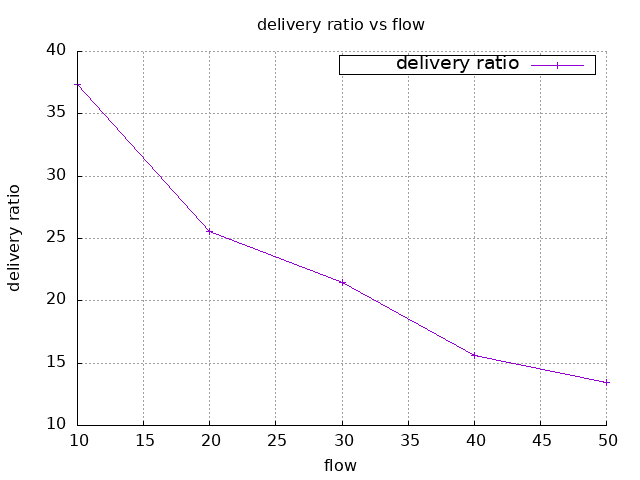
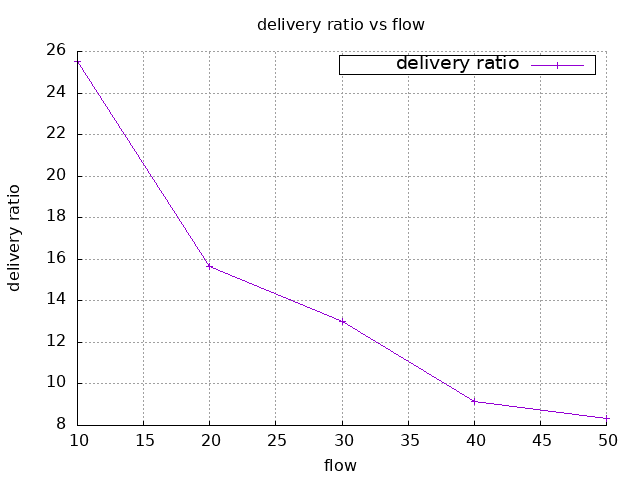
ns3-offline : number of flows is made to be half of the number of senders/receivers

diff --git a/1905003/1905003_2.cc b/1905003/1905003_2.cc
@@ -69,9 +69,9 @@ main(int argc, char *argv[])
   std::string bottleNeckDelay = "2ms";
   std::string file = "./scratch/1905003/1905003_2/data.txt";
 
-  // changes for part-1
+  // changes for part-2
   int nNodes = 20;
-  int nFlows = 20;
+  int nFlows = 10;
   int nPacketsPerSecond = 500;
   int speed = 5;
 
@@ -87,14 +87,12 @@ main(int argc, char *argv[])
   cmd.AddValue("file","File to store data", file);
   cmd.Parse(argc,argv);
   
-  nFlows = nFlows/2;
   int nLeaf = nNodes/2;
   int dataRate =(payloadSize * nPacketsPerSecond * 8) / 1000;		//kbps
   std::string senderDataRate = std::to_string(dataRate) + "Kbps";
   std::string bottleNeckDataRate = std::to_string(dataRate / 10) + "Kbps";
 
-  NS_LOG_UNCOND("Using nodes : "<<nNodes<<" ; flows : "<<2*nFlows<<" ; packets per sec : "<<nPacketsPerSecond<<" ; "\
-                "speed : "<<speed<<" ; sender data rate : "<<senderDataRate<<" ; bottleneck data rate : "<<bottleNeckDataRate);
+  NS_LOG_UNCOND("Using nodes : "<<nNodes<<" ; flows : "<<nFlows<<" ; packets per sec : "<<nPacketsPerSecond<<" ; speed : "<<speed<<" ; sender data rate : "<<senderDataRate<<" ; bottleneck data rate : "<<bottleNeckDataRate);
 
   // config some default values
   Config::SetDefault("ns3::TcpSocket::SegmentSize", UintegerValue(payloadSize));
@@ -272,7 +270,7 @@ main(int argc, char *argv[])
 
   std::ofstream MyFile(file, std::ios_base::app);
   // first x values
-  MyFile << nNodes << " " << 2*nFlows << " " << nPacketsPerSecond << " " << speed  << " ";
+  MyFile << nNodes << " " << nFlows << " " << nPacketsPerSecond << " " << speed  << " ";
   // then y values
   MyFile << AvgThroughput << " " <<((ReceivedPackets*100.00)/SentPackets) <<std::endl;
 

diff --git a/NS3/mycodes/assignment/part_1_wireless_high_static/wireless_high_static.cc b/NS3/mycodes/assignment/part_1_wireless_high_static/wireless_high_static.cc
@@ -74,7 +74,7 @@ main(int argc, char *argv[])
 
   // changes for part-1
   int nNodes = 20;
-  int nFlows = 20;
+  int nFlows = 10;
   int nPacketsPerSecond = 500;
   int coverageArea = 5;
 
@@ -90,15 +90,13 @@ main(int argc, char *argv[])
   cmd.AddValue("file","File to store data", file);
   cmd.Parse(argc,argv);
   
-  nFlows = nFlows/2;
   int nLeaf = nNodes/2;
   int dataRate =(payloadSize * nPacketsPerSecond * 8) / 1000;		//kbps
   coverageArea *= tx_range;
   std::string senderDataRate = std::to_string(dataRate) + "Kbps";
   std::string bottleNeckDataRate = std::to_string(dataRate / 10) + "Kbps";
-  // std::string bottleNeckDataRate = "1Mbps";
 
-  NS_LOG_UNCOND("Using nodes : "<<nNodes<<" ; flows : "<<2*nFlows<<" ; packets per sec : "<<nPacketsPerSecond<<" ; coverage area : "<<coverageArea<<" ; sender data rate : "<<senderDataRate<<" ; bottleneck data rate : "<<bottleNeckDataRate);
+  NS_LOG_UNCOND("Using nodes : "<<nNodes<<" ; flows : "<<nFlows<<" ; packets per sec : "<<nPacketsPerSecond<<" ; coverage area : "<<coverageArea<<" ; sender data rate : "<<senderDataRate<<" ; bottleneck data rate : "<<bottleNeckDataRate);
 
   // config some default values
   Config::SetDefault("ns3::TcpSocket::SegmentSize", UintegerValue(payloadSize));
@@ -271,7 +269,7 @@ main(int argc, char *argv[])
   std::ofstream MyFile(file, std::ios_base::app);
 
   // first x values
-  MyFile << nNodes << " " << 2*nFlows << " " << nPacketsPerSecond << " " << coverageArea  << " ";
+  MyFile << nNodes << " " << nFlows << " " << nPacketsPerSecond << " " << coverageArea  << " ";
   // then y values
   MyFile << AvgThroughput << " " <<((ReceivedPackets*100.00)/SentPackets) <<std::endl;
 

diff --git a/1905003/1905003_1.cc b/1905003/1905003_1.cc
@@ -74,7 +74,7 @@ main(int argc, char *argv[])
 
   // changes for part-1
   int nNodes = 20;
-  int nFlows = 20;
+  int nFlows = 10;
   int nPacketsPerSecond = 500;
   int coverageArea = 5;
 
@@ -90,14 +90,13 @@ main(int argc, char *argv[])
   cmd.AddValue("file","File to store data", file);
   cmd.Parse(argc,argv);
   
-  nFlows = nFlows/2;
   int nLeaf = nNodes/2;
   int dataRate =(payloadSize * nPacketsPerSecond * 8) / 1000;		//kbps
   coverageArea *= tx_range;
   std::string senderDataRate = std::to_string(dataRate) + "Kbps";
   std::string bottleNeckDataRate = std::to_string(dataRate / 10) + "Kbps";
 
-  NS_LOG_UNCOND("Using nodes : "<<nNodes<<" ; flows : "<<2*nFlows<<" ; packets per sec : "<<nPacketsPerSecond<<" ; coverage area : "<<coverageArea<<" ; sender data rate : "<<senderDataRate<<" ; bottleneck data rate : "<<bottleNeckDataRate);
+  NS_LOG_UNCOND("Using nodes : "<<nNodes<<" ; flows : "<<nFlows<<" ; packets per sec : "<<nPacketsPerSecond<<" ; coverage area : "<<coverageArea<<" ; sender data rate : "<<senderDataRate<<" ; bottleneck data rate : "<<bottleNeckDataRate);
 
   // config some default values
   Config::SetDefault("ns3::TcpSocket::SegmentSize", UintegerValue(payloadSize));
@@ -270,7 +269,7 @@ main(int argc, char *argv[])
   std::ofstream MyFile(file, std::ios_base::app);
 
   // first x values
-  MyFile << nNodes << " " << 2*nFlows << " " << nPacketsPerSecond << " " << coverageArea  << " ";
+  MyFile << nNodes << " " << nFlows << " " << nPacketsPerSecond << " " << coverageArea  << " ";
   // then y values
   MyFile << AvgThroughput << " " <<((ReceivedPackets*100.00)/SentPackets) <<std::endl;
 

diff --git a/NS3/mycodes/assignment/part_2_wireless_high_mobile/wireless_high_mobile.cc b/NS3/mycodes/assignment/part_2_wireless_high_mobile/wireless_high_mobile.cc
@@ -71,7 +71,7 @@ main(int argc, char *argv[])
 
   // changes for part-1
   int nNodes = 20;
-  int nFlows = 20;
+  int nFlows = 10;
   int nPacketsPerSecond = 500;
   int speed = 5;
 
@@ -87,14 +87,12 @@ main(int argc, char *argv[])
   cmd.AddValue("file","File to store data", file);
   cmd.Parse(argc,argv);
   
-  nFlows = nFlows/2;
   int nLeaf = nNodes/2;
   int dataRate =(payloadSize * nPacketsPerSecond * 8) / 1000;		//kbps
   std::string senderDataRate = std::to_string(dataRate) + "Kbps";
   std::string bottleNeckDataRate = std::to_string(dataRate / 10) + "Kbps";
 
-  NS_LOG_UNCOND("Using nodes : "<<nNodes<<" ; flows : "<<2*nFlows<<" ; packets per sec : "<<nPacketsPerSecond<<" ; "\
-                "speed : "<<speed<<" ; sender data rate : "<<senderDataRate<<" ; bottleneck data rate : "<<bottleNeckDataRate);
+  NS_LOG_UNCOND("Using nodes : "<<nNodes<<" ; flows : "<<nFlows<<" ; packets per sec : "<<nPacketsPerSecond<<" ; speed : "<<speed<<" ; sender data rate : "<<senderDataRate<<" ; bottleneck data rate : "<<bottleNeckDataRate);
 
   // config some default values
   Config::SetDefault("ns3::TcpSocket::SegmentSize", UintegerValue(payloadSize));
@@ -272,7 +270,7 @@ main(int argc, char *argv[])
 
   std::ofstream MyFile(file, std::ios_base::app);
   // first x values
-  MyFile << nNodes << " " << 2*nFlows << " " << nPacketsPerSecond << " " << speed  << " ";
+  MyFile << nNodes << " " << nFlows << " " << nPacketsPerSecond << " " << speed  << " ";
   // then y values
   MyFile << AvgThroughput << " " <<((ReceivedPackets*100.00)/SentPackets) <<std::endl;
 
